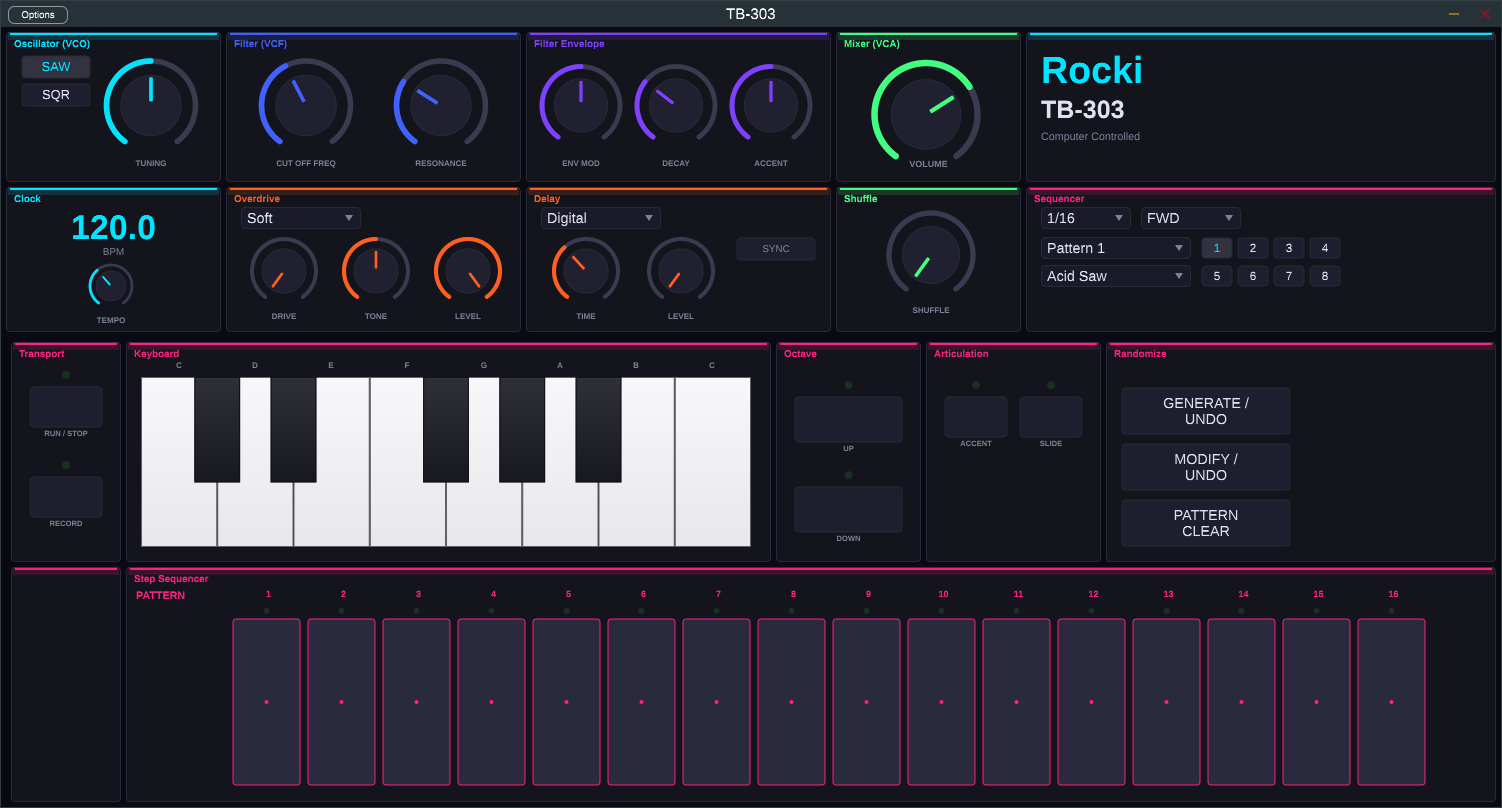
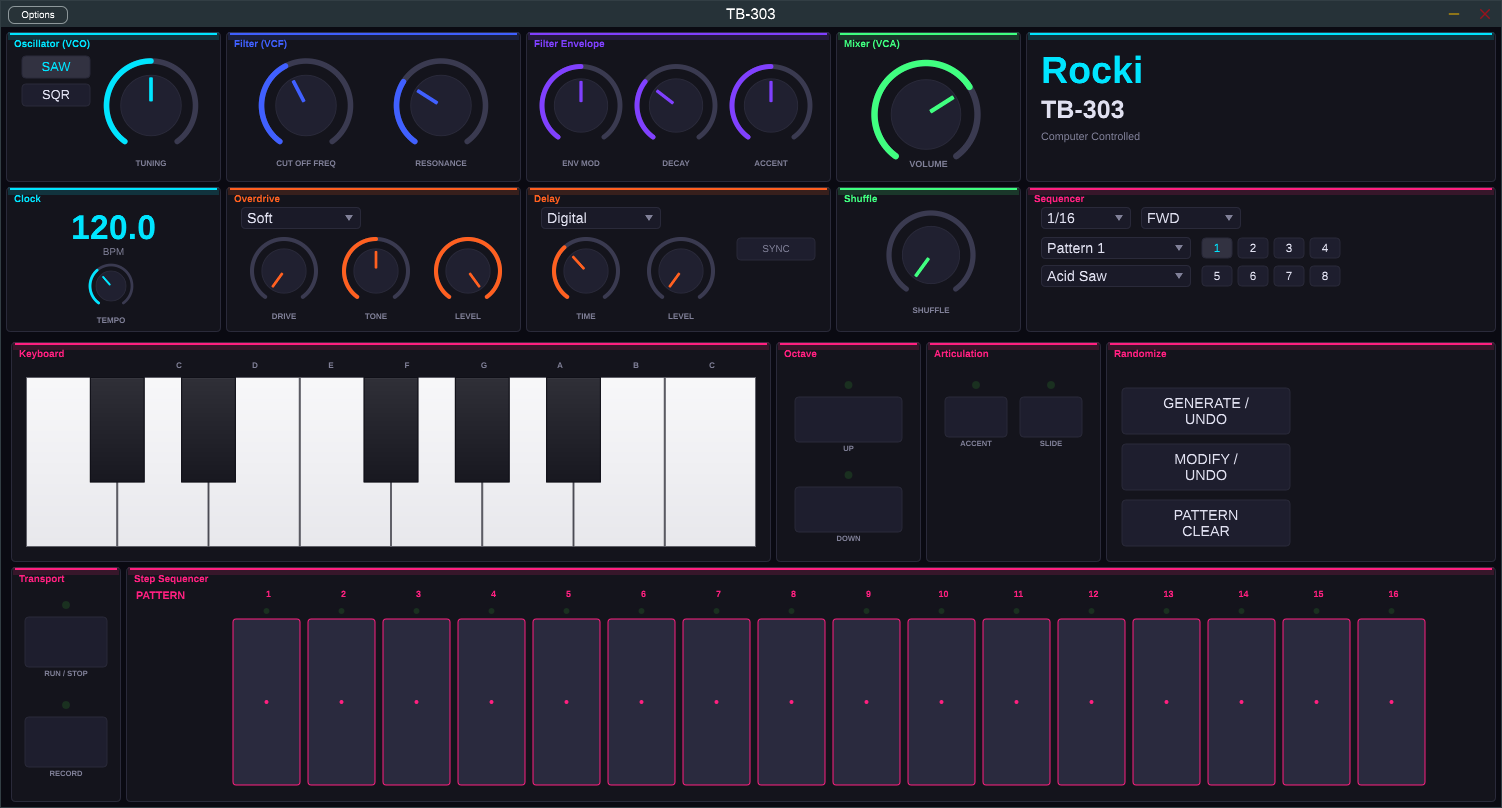
Move Transport to Row 4 next to Step Sequencer, remove empty panel
- Removed empty panel from Row 4 left side
- Transport section (RUN/STOP, RECORD) moved from Row 3 to Row 4,
  now sits left of the Step Sequencer
- Keyboard section expanded to fill freed space
- Updated screenshot

https://claude.ai/code/session_01FagTBpks51Z9jDDqN3xDNu

Changed region(s): [[0.0, 0.4332, 0.4594, 0.6807], [0.49, 0.4641, 0.5206, 0.6807], [0.0, 0.7116, 0.0306, 0.7426]]

diff --git a/Source/GUI/BottomPanel.cpp b/Source/GUI/BottomPanel.cpp
@@ -141,9 +141,8 @@ void BottomPanel::paint(juce::Graphics& g)
     auto bounds = getLocalBounds();
     (void)bounds;
 
-    // Row 3 panels
-    TB303LookAndFeel::paintSectionPanel(g, { 10, 5, 110, 220 }, "Transport", TB303Colors::pink());
-    TB303LookAndFeel::paintSectionPanel(g, { 125, 5, 645, 220 }, "Keyboard", TB303Colors::pink());
+    // Row 3 panels (no Transport here - moved to Row 4)
+    TB303LookAndFeel::paintSectionPanel(g, { 10, 5, 760, 220 }, "Keyboard", TB303Colors::pink());
     TB303LookAndFeel::paintSectionPanel(g, { 775, 5, 145, 220 }, "Octave", TB303Colors::pink());
     TB303LookAndFeel::paintSectionPanel(g, { 925, 5, 175, 220 }, "Articulation", TB303Colors::pink());
     TB303LookAndFeel::paintSectionPanel(g, { 1105, 5, 390, 220 }, "Randomize", TB303Colors::pink());
@@ -166,7 +165,7 @@ void BottomPanel::paint(juce::Graphics& g)
     }
 
     // Row 4 panels
-    TB303LookAndFeel::paintSectionPanel(g, { 10, 230, 110, 235 }, "", TB303Colors::pink());
+    TB303LookAndFeel::paintSectionPanel(g, { 10, 230, 110, 235 }, "Transport", TB303Colors::pink());
     TB303LookAndFeel::paintSectionPanel(g, { 125, 230, 1370, 235 }, "Step Sequencer", TB303Colors::pink());
 
     // PATTERN label and step numbers
@@ -185,12 +184,12 @@ void BottomPanel::paint(juce::Graphics& g)
 
 void BottomPanel::resized()
 {
-    // Row 3 - Transport [10, 5, 110, 220]
-    runStopButton_.setBounds(25, 30, 80, 80);
-    recordButton_.setBounds(25, 120, 80, 80);
+    // Keyboard [10, 5, 760, 220] - wider now since Transport moved to Row 4
+    keyboard_.setBounds(25, 40, 730, 170);
 
-    // Keyboard [125, 5, 645, 220]
-    keyboard_.setBounds(140, 40, 610, 170);
+    // Transport moved to Row 4 [10, 230, 110, 235]
+    runStopButton_.setBounds(20, 260, 90, 90);
+    recordButton_.setBounds(20, 360, 90, 90);
 
     // Octave [775, 5, 145, 220]
     upButton_.setBounds(790, 40, 115, 85);
